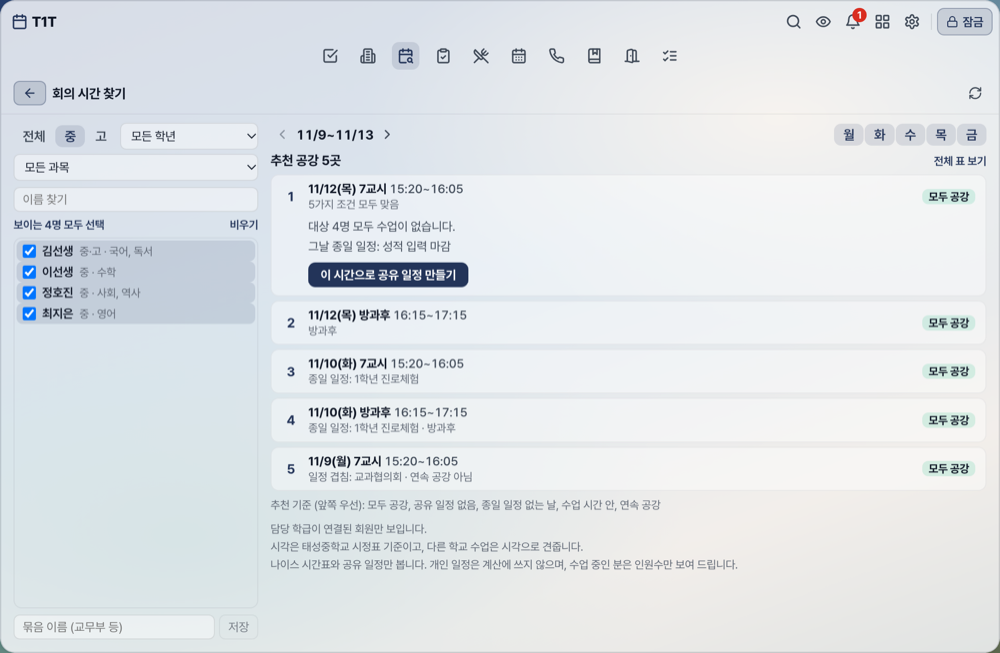
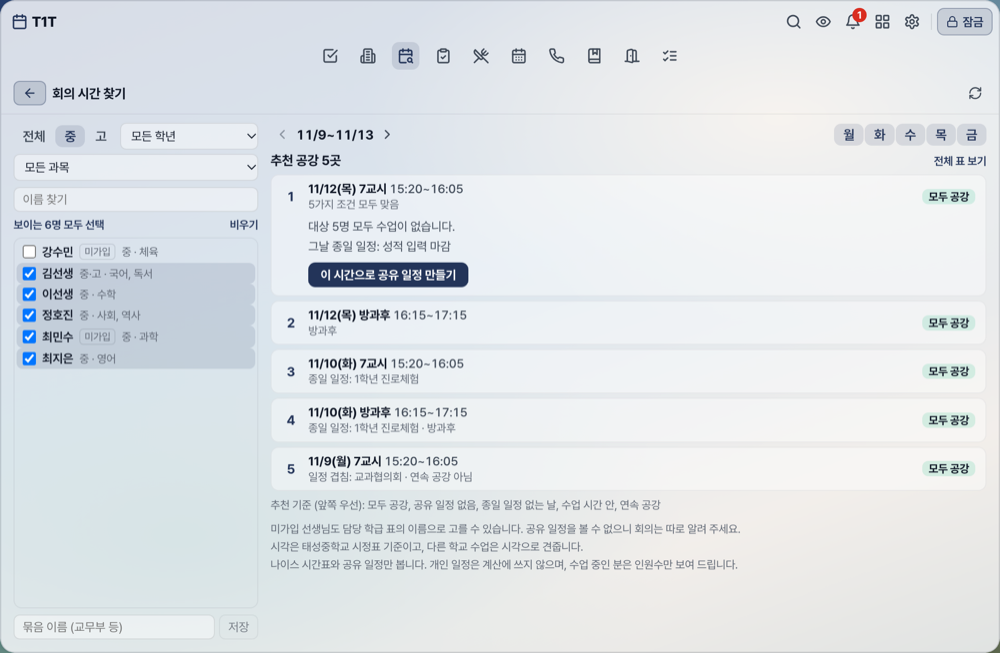
docs: 안내서와 README에 회의 찾기 미가입 선생님 반영
- 안내서 11장: 가입하지 않은 선생님도 표의 이름으로 나오고 미가입이 붙는다고 적고, 옛 문구(가입해 연결된 회원만 나옴)를 뺐다
- 관리자 안내에 기초 시간표 탭에서 컴시간 파일을 올리면 모든 선생님이 표에 들어간다고 더했다
- 회의 찾기 사진을 새 화면으로 다시 찍었다(예시 이름)
- README의 회의 찾기 설명을 고쳤다

Changed region(s): [[0.0, 0.3675, 0.155, 0.5819], [0.279, 0.7963, 0.744, 0.827], [0.403, 0.3369, 0.434, 0.3675]]

diff --git a/docs/T1T-교사_사용안내서.html b/docs/T1T-교사_사용안내서.html
@@ -469,11 +469,11 @@
 <p class="small">표의 이름은 계정 이름과 글자까지 같아야 연결됩니다. 표에 없는 선생님은 화면 아래에 이름이 나옵니다. <b>자동</b>이나 <b>컴시간 파일</b>로 연결된 선생님은 표를 붙여 넣어도 그대로 둡니다. 바꾸려면 표 확인 뒤 <b>자동 연결된 N명도 이 표로 바꾸기</b>나 <b>컴시간 파일로 올린 N명도 이 표로 바꾸기</b>를 고릅니다. 학기가 바뀌면 파일이나 표를 다시 올려 주세요.</p>
 
 <h2>11. 회의 시간 찾기</h2>
-<figure class="shot" style="width:72%; margin:6pt auto;"><img src="guide-img/meeting-finder.png" alt="회의 시간 찾기"><figcaption>회원과 요일을 고르면 공강 추천 5곳이 나옵니다 (예시 이름)</figcaption></figure>
+<figure class="shot" style="width:72%; margin:6pt auto;"><img src="guide-img/meeting-finder.png" alt="회의 시간 찾기"><figcaption>선생님과 요일을 고르면 공강 추천 5곳이 나옵니다 (예시 이름)</figcaption></figure>
 <div class="step">
   <ol>
     <li>아이콘 줄이나 도구 모음에서 <b>회의 찾기</b>를 엽니다.</li>
-    <li><b>가입한 회원</b>을 눌러 고릅니다. 학교, 수업 학년, 과목, 이름으로 좁힐 수 있습니다. 자주 쓰는 대상은 <b>묶음</b>으로 저장해 두면 이 PC에서 다시 불러올 수 있습니다.</li>
+    <li><b>선생님</b>을 눌러 고릅니다. 가입하지 않은 선생님도 담당 학급 표의 이름으로 나오고 <b>미가입</b>이 붙습니다. 학교, 수업 학년, 과목, 이름으로 좁힐 수 있습니다. 자주 쓰는 대상은 <b>묶음</b>으로 저장해 두면 이 PC에서 다시 불러올 수 있습니다.</li>
     <li>원하는 <b>주</b>와 <b>요일</b>을 고릅니다. 요일 단추를 누르면 켜고 끕니다.</li>
     <li><b>추천 공강 5곳</b>이 나옵니다. 모두 공강 → 공유 일정 없음 → 종일 일정 없는 날 → 수업 시간 안 → 연속 공강 순서로 따져 고르고, 맞지 않는 조건은 글로 알려 줍니다. 모두 되는 시간이 모자라면 가장 많이 되는 시간으로 채웁니다.</li>
     <li>추천을 누르고 <b>이 시간으로 공유 일정 만들기</b>를 누르면 참석 · 불참 응답을 받는 일정 창이 채워져 열립니다.</li>
@@ -482,8 +482,8 @@
 <div class="tip">
   <b>나이스 시간표와 공유 일정만 봅니다.</b> 개인 일정과 구글 일정은 계산에 쓰지 않으므로, 개인 사정과 겹치는 시간이 나올 수 있습니다. 그때는 불참으로 답해 주시면 됩니다. 수업 중인 분은 이름 없이 인원수만 보여 줍니다.
 </div>
-<p class="small">모든 칸을 보려면 <b>전체 표 보기</b>를 누릅니다. <b>가능</b> = 모두 수업 없음, <b>2명</b> = 2명이 수업 중, <b>일정</b> = 수업은 없지만 공유 일정과 겹침입니다. 이번 주 시간표를 받으므로 다음 주 이후는 이번 주 시간표로 어림합니다. 가입해 시간표가 연결된 회원만 나오며, 관리자가 연결을 저장하기 전에는 컴시간 표기로 보입니다.</p>
-<p class="small"><b>관리자:</b> 회의 찾기에는 담당 학급 표에 있는 선생님이 나옵니다. 표는 10장을 봐 주세요.</p>
+<p class="small">모든 칸을 보려면 <b>전체 표 보기</b>를 누릅니다. <b>가능</b> = 모두 수업 없음, <b>2명</b> = 2명이 수업 중, <b>일정</b> = 수업은 없지만 공유 일정과 겹침입니다. 이번 주 시간표를 받으므로 다음 주 이후는 이번 주 시간표로 어림합니다. 미가입 선생님은 앱에서 공유 일정을 볼 수 없으니 회의를 따로 알려 주세요.</p>
+<p class="small"><b>관리자:</b> 회의 찾기에는 담당 학급 표에 있는 선생님이 나옵니다. <b>기초 시간표</b> 탭에서 컴시간 파일을 올리면 가입하지 않은 선생님까지 모두 표에 들어갑니다. 표는 10장을 봐 주세요.</p>
 <p class="small"><b>관리자:</b> 비활성화와 가입 거절은 확인을 받습니다. 실수했으면 도구 모음 &gt; 관리자 &gt; 비활성·거절에서 되돌립니다.</p>
 
 <h2>12. 시험감독 게시판</h2>

diff --git a/README.md b/README.md
@@ -10,7 +10,7 @@
 - 📋 **다중 뷰** — 오늘 / 월 / 주 / 일 / 년 / 목록 / 통계 (오늘과 주는 교시 기준)
 - 🔁 **반복 일정과 일정 응답** — 평일·매주·격주·매월, 참석·불참·확인
 - 🔒 **수업 화면 보호** — 내 수업 시간에 개인 일정 자동 가리기, Ctrl+Shift+H
-- 🔎 **회의 시간 찾기** — 회원과 요일을 고르면 시간표와 공유 일정만으로 공강 5곳 추천
+- 🔎 **회의 시간 찾기** — 선생님(미가입 포함)과 요일을 고르면 시간표와 공유 일정만으로 공강 5곳 추천
 - 🗂 **시험감독 게시판** — 부서, 교과별로 표 사진을 올리고 탭을 골라 보기
 - 📝 **쪽지·공문 붙여넣기** — 날짜를 읽어 개인 일정 초안 만들기
 - 🎨 **테마 7종과 개인 옵션** — 강조색, 글자 크기, 크게 보기, 색 구분 돕기
